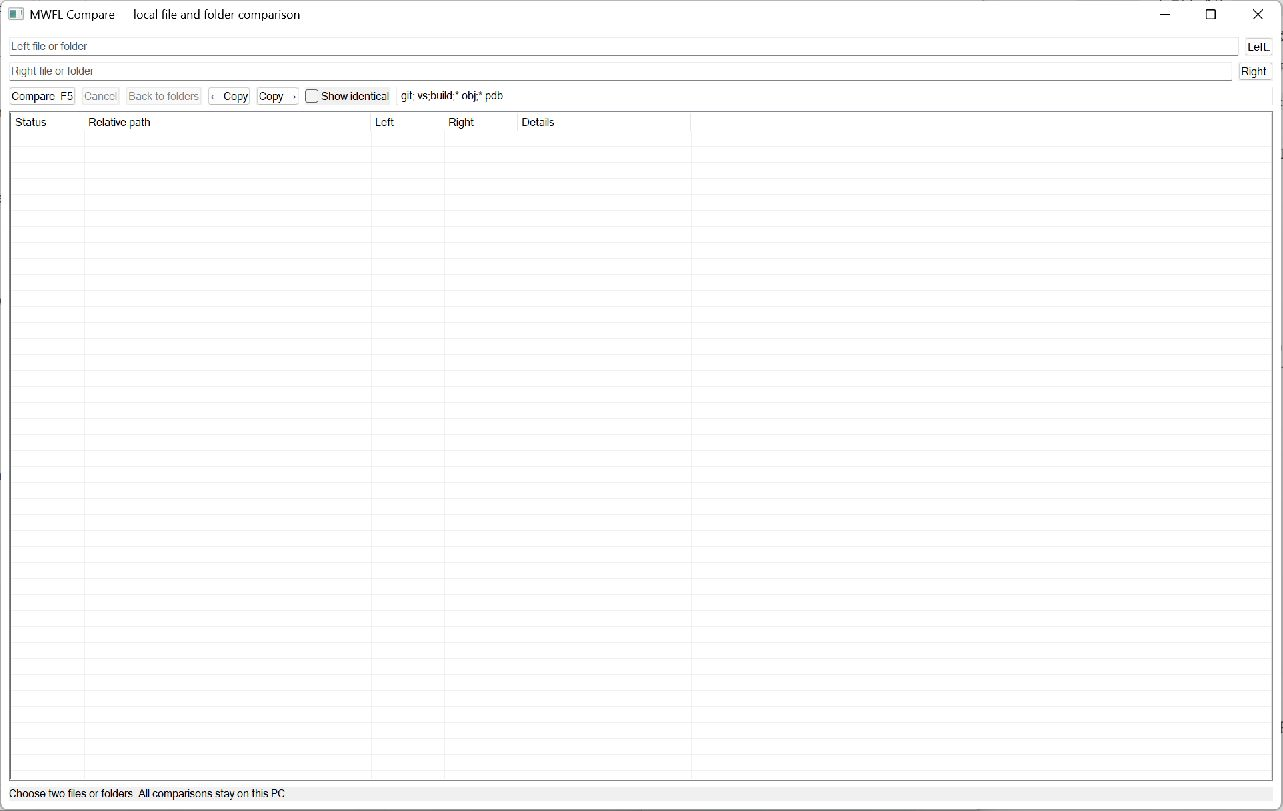
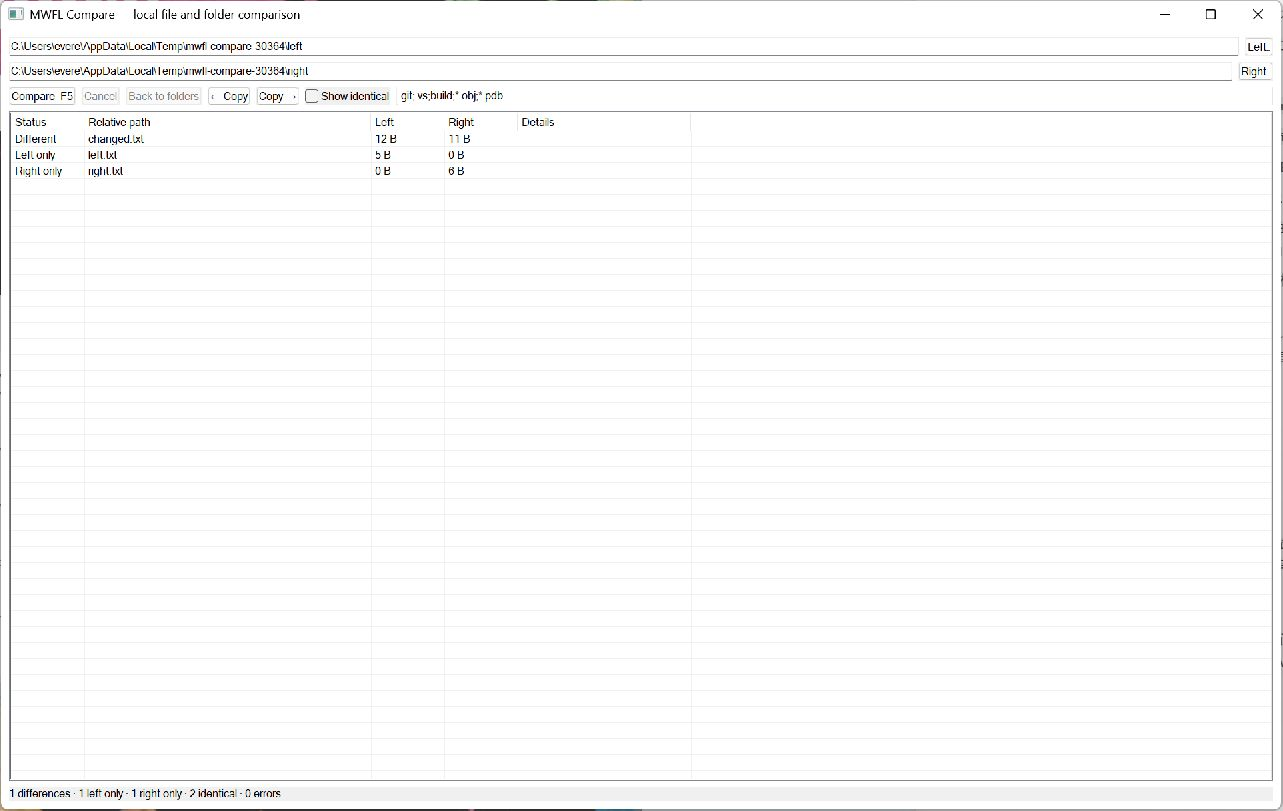
Add portable demo releases

diff --git a/README.md b/README.md
@@ -29,6 +29,10 @@ Visual Studio 2022 is supported through `vs2022-x64`. A standalone build fetches
 
 Use `folder-compare.exe --showcase` for a populated disposable demonstration.
 
+## Download
+
+Download the versioned `windows-x64-portable.zip` from [GitHub Releases](https://github.com/mwfl/folder-compare/releases), verify it with the accompanying SHA-256 file, and extract it anywhere. No installer or additional runtime is required on a supported Windows system.
+
 ## Safety boundaries
 
 Folder Compare does not perform automatic synchronization. A copy direction must be selected explicitly and confirmed. It does not claim three-way merge, Git integration, durable undo history, or implicit symlink traversal.
